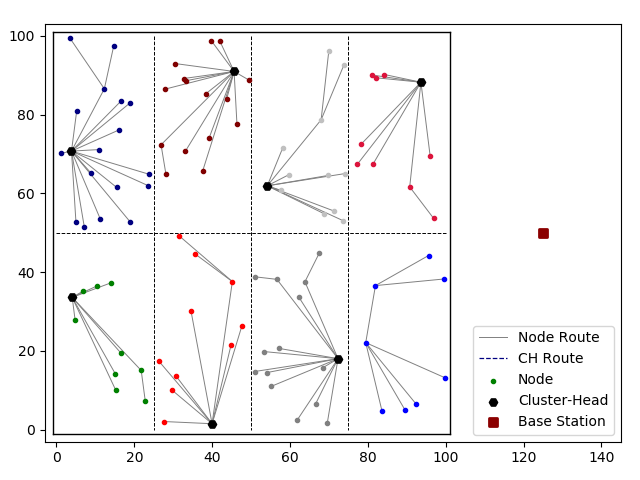
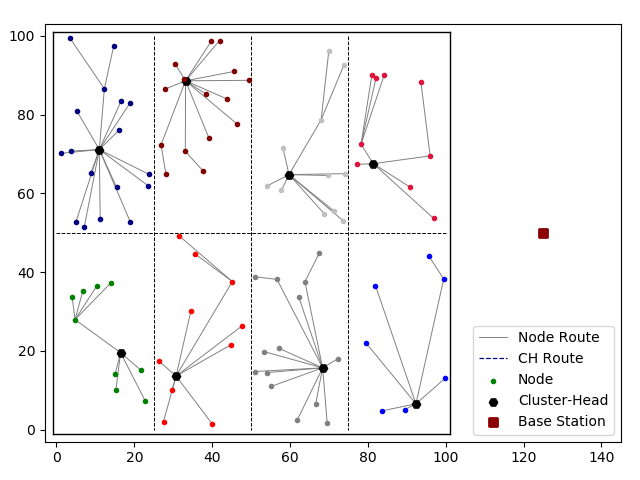
Parte 4 do protocolo

diff --git a/NIC 4.py b/NIC 4.py
@@ -6,28 +6,35 @@ import math
 BS = [125,50]
 rede = []
 area = 100
-tamSector = [25,50]
+tamSector = [50,50]
+tamPacote = 2000
 
 # Leitura do arquivo
 arq = open('nodes.txt', 'r')
 for k in range(100):
     linha = arq.readline()
     linha = linha.split('/', 3)
-    # id / x / y / Setor CH / SetorRede / No receptor / Distancia até receptor / Já foi CH? / É CH
-    node = [int(linha[0]), float(linha[1]), float(linha[2]), 0, 0, 0, 0.0, 0, 0]
+    # id / x / y / Setor CH / SetorRede / No receptor / Distancia até receptor / Já foi CH? / É CH / bateria
+    node = [int(linha[0]), float(linha[1]), float(linha[2]), 0, 0, 0, 0.0, 0, 0, 0.5]
     rede.append(node)
 
 
+Round = 0
 
+while(len(rede) != 0):
 
-for round in range(10):
+    Round += 1
+    energiaTotal = 0
+    for node in rede:
+        energiaTotal += node[9]
+    print('Round: ' + str(Round) + ' Total nodes: ' + str(len(rede)) + ' Energia total:' + str(energiaTotal))
+
     # Criação dos setores
     totalX = int(area/tamSector[0])
     contX = 0
     totalY = int(area/tamSector[1])
     contY = 0
     limites = []
-
     count = 0
     for i in range(totalY):
         for j in range(totalX):
@@ -52,8 +59,6 @@ for round in range(10):
     for node in rede:
         totalNodesSector[node[4]-1] += 1
         nodesSectors[node[4]-1].append(node)
-    print(totalNodesSector)
-    print()
 
     # Definição do Multi-hop em todos os setores
     for setor in nodesSectors:
@@ -132,27 +137,38 @@ for round in range(10):
             tamModelosCH[ pos ] = float('inf')
             ordemMenorFormacoes.append( pos )
 
-        print(ordemMenorFormacoes)
-
         # Escolher a melhor formação possível
+        # Escolher a melhor formação possível e atualiza o vetor rede
         for formacao in ordemMenorFormacoes:
             if(modelosCH[ formacao ][0][7] == 0):
                 for node in rede:
                     for nodeSubstituto in modelosCH[ formacao ][1]:
                         if(nodeSubstituto[0] == node[0]):
-                            rede[ node[0] - 1 ] = nodeSubstituto
+                            node[5] = nodeSubstituto[5]
+                            node[6] = nodeSubstituto[6]
+                            node[7] = nodeSubstituto[7]
+                            node[8] = nodeSubstituto[8]
                     if(modelosCH[ formacao ][0][0] == node[0]):
-                        rede[ modelosCH[ formacao ][0][0] - 1 ][7] = 1
-                        rede[ modelosCH[ formacao ][0][0] - 1 ][8] = 1
+                        node[7] = 1
+                        node[8] = 1
+                        node[6] = math.sqrt((node[1]-BS[0])**2 + (node[2]-BS[1])**2)
+                        totalContEnc = 0
+                        for nodeSearch in rede:
+                            if(nodeSearch[5] == node[0]):
+                                totalContEnc += 1
+                        node[9] -= 0.000000005*tamPacote*(totalContEnc + 1)
                 break
 
+    # Transmissão dos pacotes
+    for node in rede:
+        node[9] -= (0.00000005*tamPacote + 0.0000000001*tamPacote*(node[6]*node[6]))
+        if(node[5] != 0):
+            for nodeSearch in rede:
+                if (nodeSearch[0] == node[5]):
+                    nodeSearch[9] -= (0.00000005*tamPacote)
 
 
-
-
-
-
-
+    '''
     # Plot do Gráfico
 
     for node in rede:
@@ -204,12 +220,23 @@ for round in range(10):
     plt.savefig('nodes.png')
     plt.show()
     plt.clf()
+    '''
 
     # Reset nodes
-    count = 0
     for node in rede:
         node[8] = 0
-        count += node[7]
-    if(count == len(rede)):
-        for node in rede:
-            node[7] = 0
+        node[5] = 0
+        node[6] = 0.0
+        if(node[9] <= 0.0):
+            rede.remove(node)
+
+
+    for setor in nodesSectors:
+        count = 0
+        for node in setor:
+            count += node[7]
+        if(count == len(setor)):
+            for node in setor:
+                node[7] = 0
+
+print(Round)
